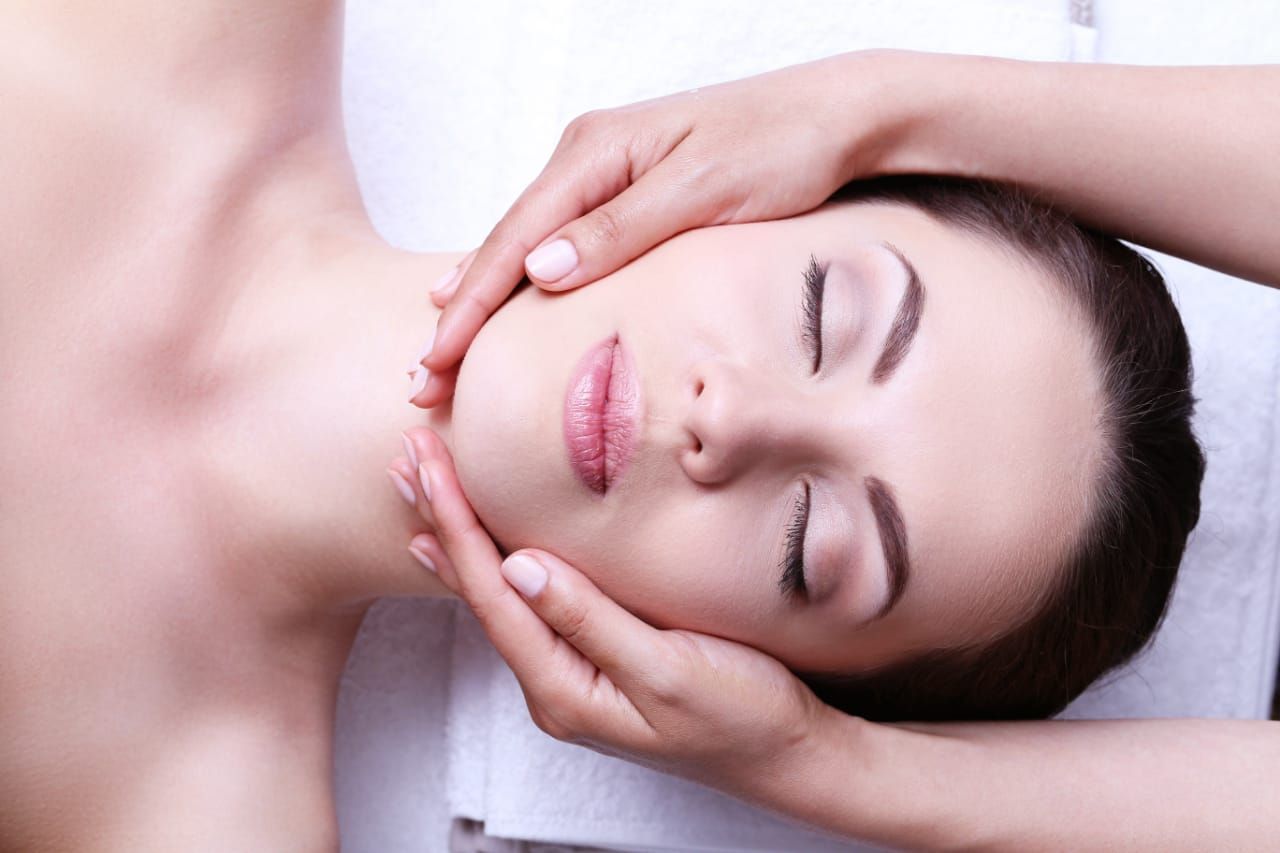
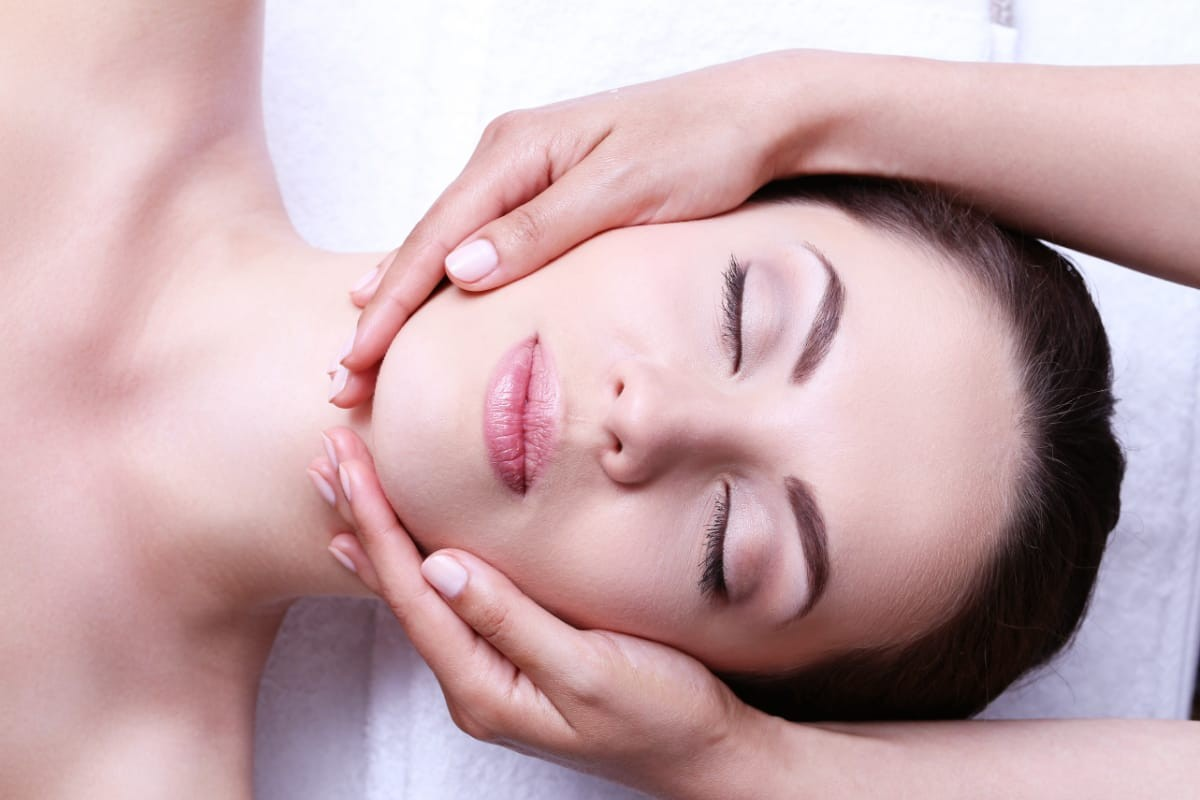
Add files via upload

diff --git a/index.html b/index.html
@@ -20,33 +20,35 @@
                     <h3 class="text-pink-500 font-semibold">Centro de Estética Corporal e Facial</h3>
                 </div>
             </div>
-            <div class="flex items-center justify-end relative w-full mr-4 mt-2 mb-2">
-                <ul class="flex text-pink-400 items-center space-x-6 text-lg font-semibold justify-end mr-4 mt-2 mb-2">
-                    <li><a href="#inicio" class="hover:text-pink-600 border-b-2 border-transparent hover:border-pink-600">Início</a></li>
-                    <li><a href="#servicos" class="hover:text-pink-600 border-b-2 border-transparent hover:border-pink-600">Serviços</a></li>
-                    <li><a href="#profissionais" class="hover:text-pink-600 border-b-2 border-transparent hover:border-pink-600">Profissionais</a></li>
+            <div class="justify-end relative w-full mr-4 mt-2 mb-2">
+                <ul class="flex items-center justify-end space-x-6 text-pink-400 hover:text-pink-600 text-lg font-semibold mr-4 mt-2 mb-2">
+                    <li><a href="#inicio" class="border-b-2 border-transparent hover:border-pink-600">Início</a></li>
+                    <li><a href="#servicos" class="border-b-2 border-transparent hover:border-pink-600">Serviços</a></li>
+                    <li><a href="#profissionais" class="border-b-2 border-transparent hover:border-pink-600">Profissionais</a></li>
                     <li>
-                        <button class="flex items-center justify-center text-white bg-pink-500/80 hover:bg-pink-500 rounded-full px-4 py-2">
-                            <img class="size-7 mr-2" src="img/calendario.png" alt="Icone de calendario">
-                            <a href="https://wa.me/+5511992179843">Agendar pelo WhatsApp</a>
+                        <button class="flex items-center justify-center cursor-pointer text-white bg-pink-500/80 hover:bg-pink-500 rounded-full shadow-md px-4 py-2">
+                            <a href="https://wa.me/+5511992179843" class="flex items-center justify-center w-full h-full">
+                                <img class="size-7 mr-2" src="img/calendario.png" alt="Icone de calendario">
+                                Agendar pelo WhatsApp
+                            </a>
                         </button>
                     </li>
                 </ul>
             </div>
         </nav>
      </header>
-    <main class="pt-32 flex flex-col items-center justify-center w-full">
+    <main class="pt-32 flex flex-col items-center justify-center w-full" id="inicio">
         <!-- Carrossel -->
-        <div id="inicio" class="flex items-end relative w-full h-auto overflow-hidden shadow-md mb-6">
-            <div class="flex overflow-x-auto bg-linear-to-r from-pink-400/50 to-white/50 gap-6 snap-x snap-mandatory scroll-smooth scrollbar-hide items-center md:flex-row md:gap-4 w-full h-full transition-transform duration-500 ease-in-out relative">
+        <div class="flex items-end relative w-full h-auto overflow-hidden shadow-md mb-6">
+            <div class="flex overflow-x-auto bg-linear-to-r from-rose-400/50 via-white/50 gap-6 snap-x snap-mandatory scroll-smooth scrollbar-hide items-center md:flex-row md:gap-4 w-full h-full transition-transform duration-500 ease-in-out relative">
                 <article class="flex md:flex-row shrink-0 lg:gap-6 gap-4 w-full items-center text-center relative">
                     <div class="flex flex-col w-1/2 items-center justify-center relative">
-                        <h3 class="text-lg font-semibold text-black">Bem-estar e estética para o seu dia a dia</h3>
-                        <p class="text-black w-9/10 mt-2 leading-relaxed">
+                        <h3 class="text-xl text-rose-600 font-bold">Bem-estar e estética para o seu dia a dia</h3>
+                        <p class="text-lg text-pink-500 font-semibold leading-relaxed w-9/10 mt-2">
                             Aqui você encontra tratamentos corporais e faciais que ajudam a relaxar, aliviar o estresse e renovar as energias do dia a dia.
                             Cada atendimento é feito com carinho e atenção, para que você se sinta bem, confiante e ainda mais bonita.
                         </p>
-                        <button class="mt-4 bg-rose-400 text-white font-semibold rounded-full hover:bg-pink-700 py-2 px-4">Saiba mais</button>
+                        <button class="text-white font-semibold bg-rose-400 hover:bg-rose-500 rounded-full shadow-md py-2 px-4 mt-4">Saiba mais</button>
                     </div>
                     <div class="flex w-1/2 relative">
                         <img class="size-auto" src="img/slide1.jpg" alt="Imagem de slide 1"/>
@@ -59,7 +61,7 @@
                             Cuidar de si mesma vai além da estética — é um momento de pausa, renovação e bem-estar.
                             Na Raios Vitais, cada detalhe é pensado para proporcionar uma experiência acolhedora, relaxante e transformadora.
                         </p>
-                        <button class="mt-4 bg-rose-400 text-white font-semibold rounded-full hover:bg-pink-700 py-2 px-4">Saiba mais</button>
+                        <button class="text-white font-semibold bg-rose-400 hover:bg-rose-500 rounded-full shadow-md py-2 px-4 mt-4">Saiba mais</button>
                     </div>
                     <div class="flex w-1/2 relative">
                         <img class="size-auto" src="img/slide2.jpg" alt="Imagem de slide 1"/>
@@ -72,7 +74,7 @@
                             Na Raios Vitais, acreditamos que cada pessoa merece um cuidado especial.
                             Nossos profissionais estão sempre prontos para ouvir suas necessidades e oferecer o melhor tratamento.
                         </p>
-                        <button class="mt-4 bg-rose-400 text-white font-semibold rounded-full hover:bg-pink-700 py-2 px-4">Saiba mais</button>
+                        <button class="text-white font-semibold bg-rose-400 hover:bg-rose-500 rounded-full shadow-md py-2 px-4 mt-4">Saiba mais</button>
                     </div>
                     <div class="flex w-1/2 relative">
                         <img class="size-auto" src="img/slide3.jpg" alt="Imagem de slide 1"/>
@@ -80,15 +82,15 @@
                 </article>
             </div>
             <!-- Botões de Navegação -->
-            <button class="ml-4 size-8 absolute left-0 top-1/2 transform -translate-y-1/2 hover:bg-pink-300 hover:rounded-full">
+            <button class="ml-4 size-8 absolute left-0 top-1/2 -translate-y-1/2 hover:bg-rose-300 hover:rounded-full">
                 &#10094;
             </button>
-            <button class="mr-4 size-8 absolute right-0 top-1/2 transform -translate-y-1/2 hover:bg-pink-300 hover:rounded-full">
+            <button class="mr-4 size-8 absolute right-0 top-1/2 -translate-y-1/2 hover:bg-rose-300 hover:rounded-full">
                 &#10095;
             </button>
         </div>
         <!-- Serviços -->
-        <section id="servicos" class="flex flex-col items-center justify-center bg-linear-to-r from-rose-400/50 via-rose-300/50 to-rose-100/50 w-full mt-6 mb-2">
+        <section class="flex flex-col items-center justify-center bg-linear-to-r from-rose-400/50 via-rose-300/50 to-rose-100/50 w-full mt-6 mb-2" id="servicos">
             <div class="flex flex-col items-center justify-center rounded-lg w-full xl:w-5/6 mt-2 mb-2">
                 <h2 class="text-3xl font-bold text-pink-600 text-center mt-8">Serviços</h2>
                 <div class="grid grid-cols-2 lg:grid-cols-3 text-center gap-6 py-2 px-4 mt-6 w-full">
@@ -143,7 +145,7 @@
                     </a>
             </div>
             <!-- Profissionais -->
-             <div class="flex flex-col items-center justify-center rounded-lg w-full xl:w-5/6 mt-2 mb-2">
+             <div class="flex flex-col items-center justify-center rounded-lg w-full xl:w-5/6 mt-2 mb-2" id="profissionais">
                 <h2 class="text-3xl font-bold text-pink-600 text-center mt-4">Nossos Profissionais</h2>
                 <div class="grid grid-cols-1 md:grid-cols-3 text-center gap-6 py-2 px-4 mt-6 w-full">
                     <article class="flex flex-col items-center bg-white/50 rounded-lg shadow-md p-4">
@@ -174,5 +176,27 @@
              </div>
         </section>
     </main>
+    <footer class="bg-white/50 shadow-md w-full">
+        <div class="grid grid-cols-2 items-center justify-center w-full mt-6 mb-2">
+            <div class="flex flex-col items-center justify-center bg-linear-to-r from-rose-400/50 via-rose-300/50 to-rose-100/50 w-full h-full mt-2 mb-2">
+                <h2 class="text-xl font-bold text-pink-600 text-center mt-4">Contato</h2>
+                <br>
+                <p class="text-gray-600 mt-2 text-center">
+                    Endereço: Rua Exemplo, 123 - Bairro, Cidade - Estado<br>
+                    Telefone: (11) 99217-9843<br>
+                    Email: contato@raiovitais.com.br<br>
+                    Horário de Atendimento: Segunda a Sexta: 9h às 19h | Sábado: 10h às 16h | Domingo: Fechado
+                </p>
+            </div>
+            <div class="flex items-center justify-end">
+                <img src="img/clinica.jpg" alt="Logo Raios Vitais" class="size-auto">
+            </div>
+        </div>
+        <div class="flex items-center justify-center">
+            <p class="text-gray-600 text-center mt-2">
+                &copy; 2026 Raios Vitais. Todos os direitos reservados.
+            </p>
+        </div>
+    </footer>
 </body>
 </html>

diff --git a/styles.css b/styles.css
@@ -3,5 +3,5 @@
 
 /* Estilos personalizados */
 body {
-    font-family: 'Cinzel Decorative', cursive;
+    font-family: 'Cinzel Decorative', serif;
 }
